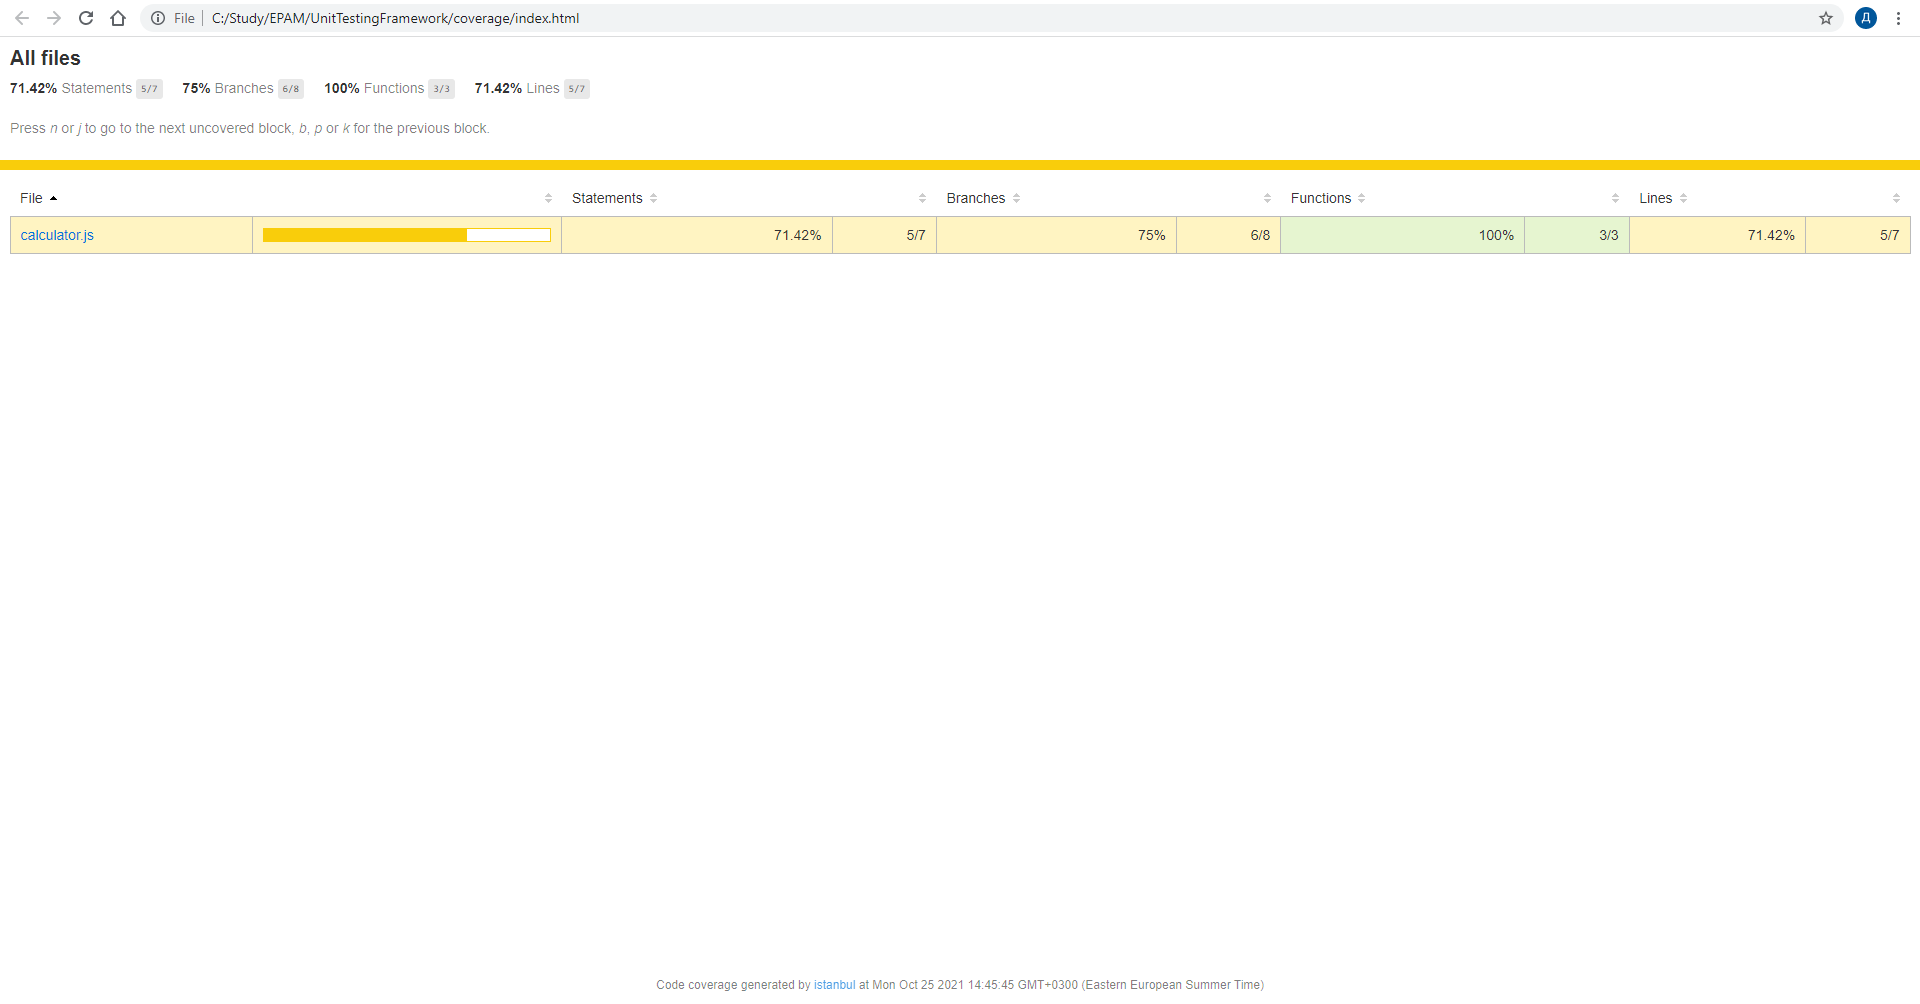
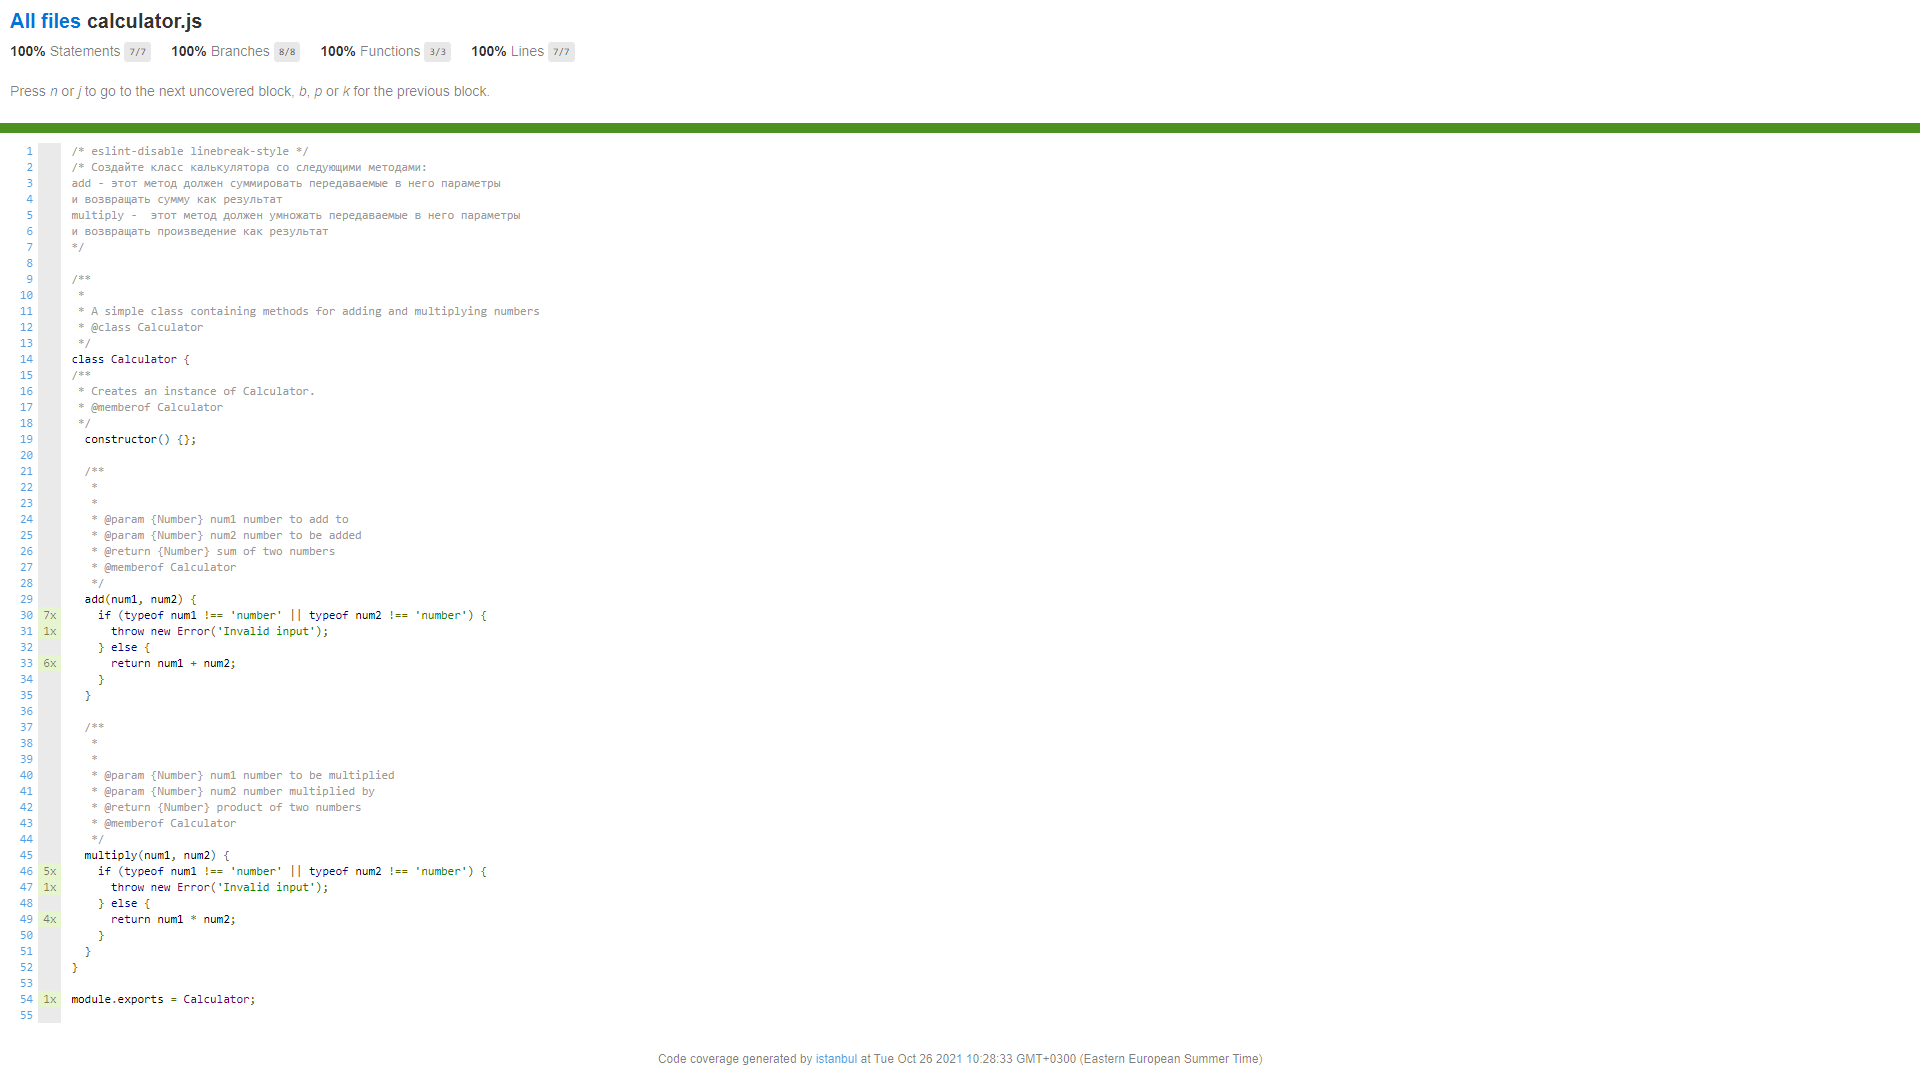
Add testing throwing an error

diff --git a/test/specs/multiply.spec.js b/test/specs/multiply.spec.js
@@ -12,6 +12,10 @@ describe('multiply', function() {
     calc = null;
   });
 
+  it('should throw an error if provided with not a number', function() {
+    expect(() => calc.multiply('a','b')).to.throw();
+  });
+
   it('should return 8 when called with numbers 2 and 4', function() {
     expect(calc.multiply(2, 4)).to.be.equal(8);
   });

diff --git a/test/specs/add.spec.js b/test/specs/add.spec.js
@@ -12,6 +12,10 @@ describe('add', function() {
     calc = null;
   });
 
+  it('should throw an error if provided with not a number', function() {
+    expect(() => calc.add('a','b')).to.throw();
+  });
+
   it('should return 6 when called with numbers 2 and 4', function() {
     expect(calc.add(2, 4)).to.be.equal(6);
   });
